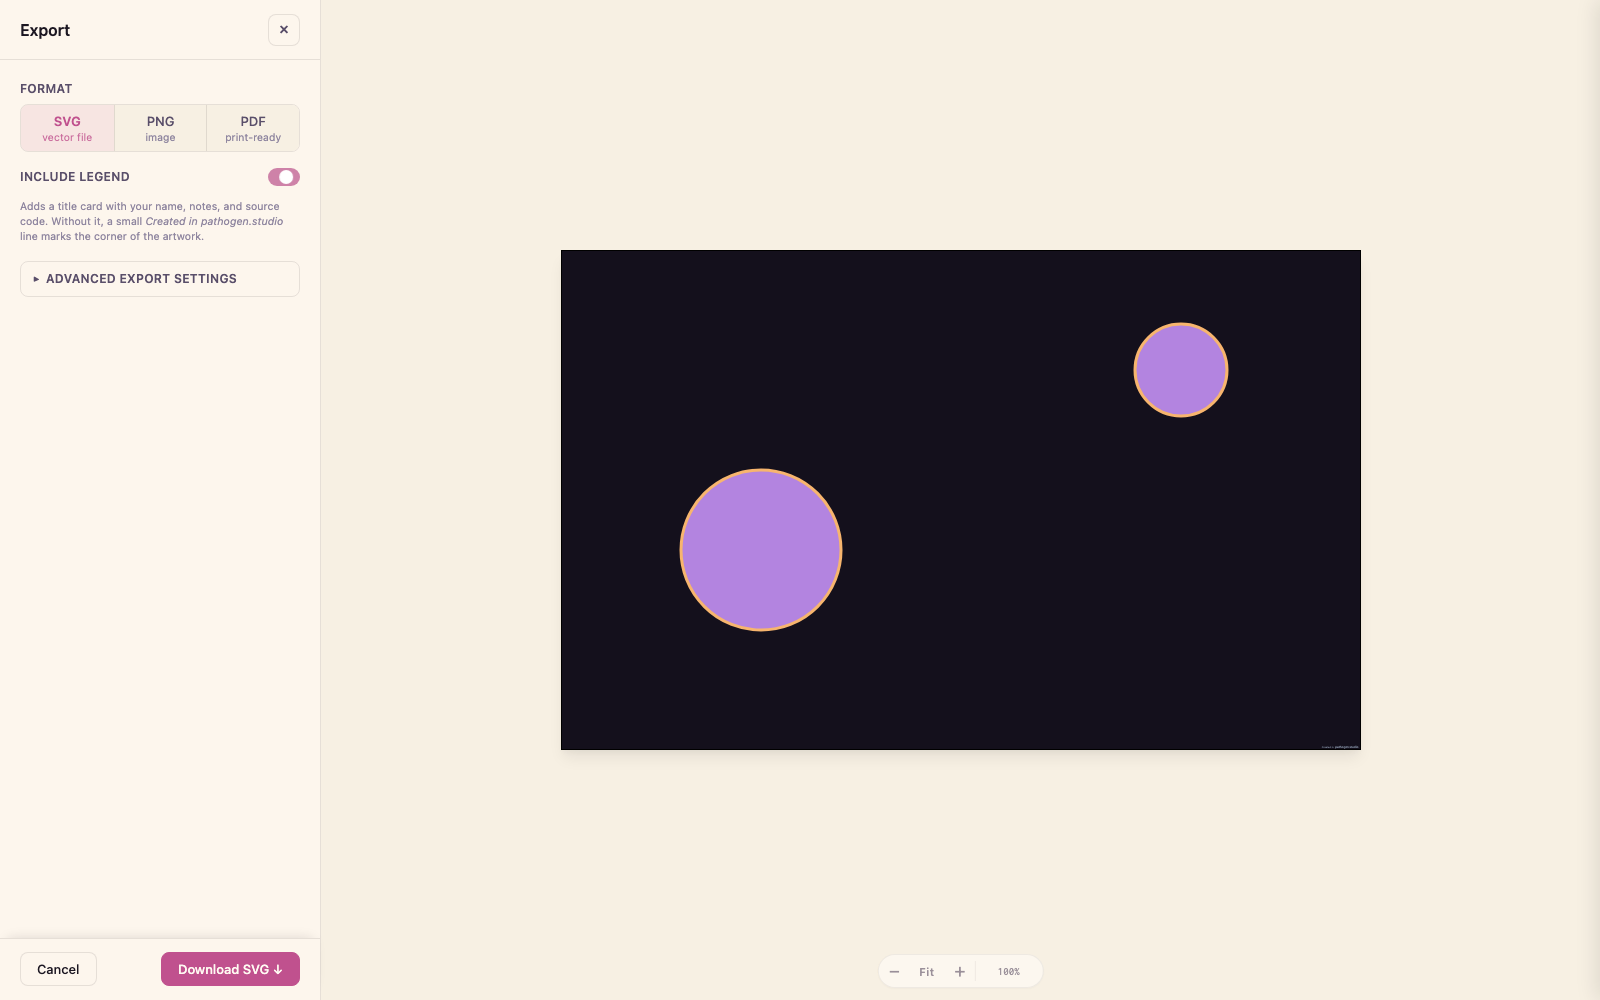
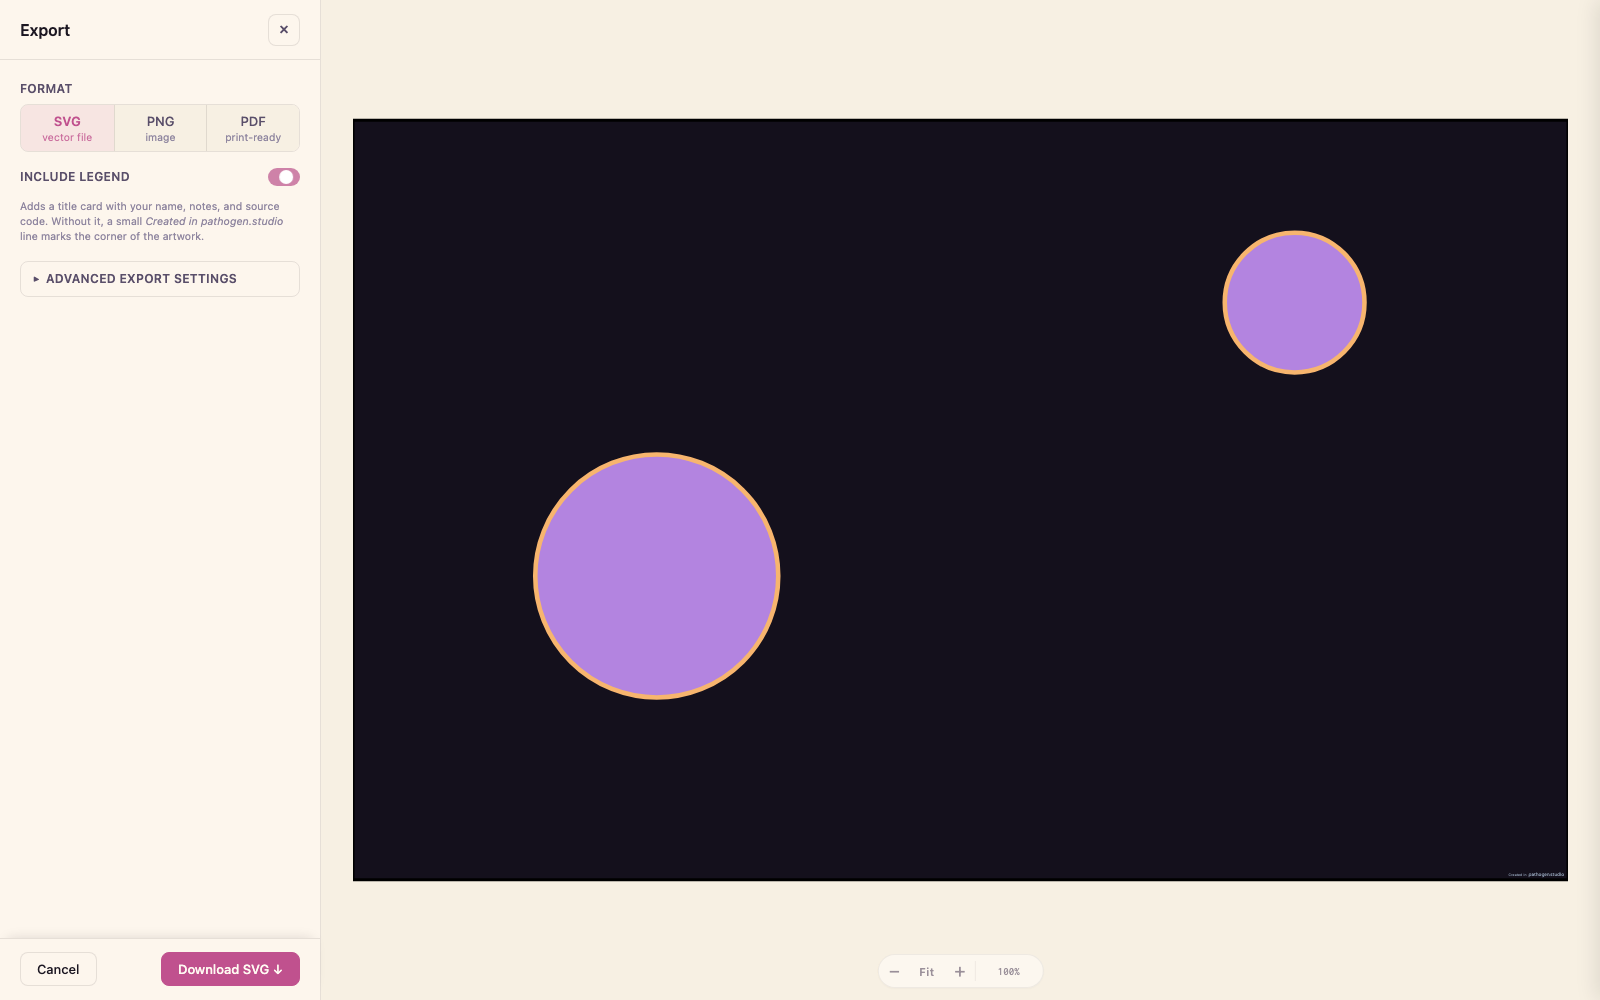
fix(playground): modal zoom window is the pane, not the artwork-sized element
Ryan's follow-up report: Export preview still confined magnified artwork
to a fixed window at high zoom (and framed a tiny artwork in an empty
card at low zoom). Root cause was structural — baked zoom renders into
the ELEMENT box, and both modal SVGs were artwork-sized
(width/height attrs + max-width/height 100%), so the window never grew
with zoom. The primary preview never had the issue because its surface
fills the pane.

Both modal SVG elements now fill the preview area (width/height 100%,
letterboxed at fit via default preserveAspectRatio); the shadow/radius
card decoration on the element is gone — decoration on the zoom window
re-creates the confinement. Export clone unaffected: the sizing is
class-based in the shadow stylesheet and never serializes.

E2E: the computed-radius pin becomes a fills-the-pane geometry pin
(svg rect ≈ preview-area content box) — 41/41. Probes re-shot at 1709%
(artwork fills the pane) and 30% (centered shrink, no empty card).

diff --git a/project-docs/unified-export/verify-export.ts b/project-docs/unified-export/verify-export.ts
@@ -392,14 +392,32 @@ async function main(): Promise<void> {
     `vbW=${zoomedState.vbW} pct=${zoomedState.pct}`,
   );
 
-  // Regression (code review 2026-07-23): a border-radius on the svg element
-  // clips baked-zoom artwork into a rounded mask — the element must have
-  // radius 0 so magnified content is never corner-clipped.
-  const zoomedRadius = await inModal<{ radius: string }>(
+  // Regression (Ryan, 2026-07-23): baked zoom renders into the ELEMENT box —
+  // if the element is artwork-sized, magnified content stays confined to a
+  // small window no matter the zoom (with rounded corners it was also
+  // corner-clipped). The element must fill the preview pane so the zoom
+  // window IS the pane, and must carry no radius.
+  const zoomedGeom = await inModal<{ radius: string; svgW: number; svgH: number; areaW: number; areaH: number; padL: number; padT: number }>(
     page,
-    `return { radius: getComputedStyle(sr.querySelector('.preview-area svg')).borderRadius };`,
+    `var svg = sr.querySelector('.preview-area svg');
+     var area = sr.querySelector('.preview-area');
+     var cs = getComputedStyle(area);
+     var r = svg.getBoundingClientRect();
+     var a = area.getBoundingClientRect();
+     return {
+       radius: getComputedStyle(svg).borderRadius,
+       svgW: r.width, svgH: r.height, areaW: a.width, areaH: a.height,
+       padL: parseFloat(cs.paddingLeft) + parseFloat(cs.paddingRight),
+       padT: parseFloat(cs.paddingTop) + parseFloat(cs.paddingBottom),
+     };`,
   );
-  check('zoomed artwork is never corner-clipped (svg radius is 0)', zoomedRadius.radius === '0px', `radius=${zoomedRadius.radius}`);
+  check(
+    'zoom window is the whole pane (svg fills preview area, radius 0)',
+    zoomedGeom.radius === '0px' &&
+      Math.abs(zoomedGeom.svgW - (zoomedGeom.areaW - zoomedGeom.padL)) < 4 &&
+      Math.abs(zoomedGeom.svgH - (zoomedGeom.areaH - zoomedGeom.padT)) < 4,
+    `svg=${Math.round(zoomedGeom.svgW)}×${Math.round(zoomedGeom.svgH)} area=${Math.round(zoomedGeom.areaW)}×${Math.round(zoomedGeom.areaH)} radius=${zoomedGeom.radius}`,
+  );
   await inModal(page, pillZoomFit);
   const fitState = await inModal<{ vbW: number; pct: string }>(page, readZoomState);
   check('pill Fit restores the full viewBox at 100%', fitState.vbW === 800 && fitState.pct === '100%', `vbW=${fitState.vbW}`);

diff --git a/project-docs/unified-export/probe-parity-zoom.ts b/project-docs/unified-export/probe-parity-zoom.ts
@@ -92,15 +92,30 @@ async function main(): Promise<void> {
   await page.evaluate(`document.dispatchEvent(new CustomEvent('open-export', { bubbles: true, composed: true }));`);
   await new Promise((r) => setTimeout(r, 800));
 
-  // Zoom to ~506% (1.5^4) via the pill.
-  for (let i = 0; i < 4; i++) {
+  // Zoom to ~1709% (1.5^7) via the pill — the confinement Ryan reported was
+  // most visible at very high zoom.
+  for (let i = 0; i < 7; i++) {
     await page.evaluate(
       `(() => { ${FIND} sr.querySelector('pathogen-zoom-pill').shadowRoot.querySelector('#zoom-in').click(); })()`,
     );
     await new Promise((r) => setTimeout(r, 150));
   }
   await new Promise((r) => setTimeout(r, 400));
-  await page.screenshot({ path: join(OUT, 'probe-parity-500pct.png') });
+  await page.screenshot({ path: join(OUT, 'probe-parity-1700pct.png') });
+
+  // Zoom OUT to ~30% — below fit the artwork should shrink centered on the
+  // pane with no empty "card" framing it.
+  await page.evaluate(
+    `(() => { ${FIND} sr.querySelector('pathogen-zoom-pill').shadowRoot.querySelector('#zoom-fit').click(); })()`,
+  );
+  for (let i = 0; i < 3; i++) {
+    await page.evaluate(
+      `(() => { ${FIND} sr.querySelector('pathogen-zoom-pill').shadowRoot.querySelector('#zoom-out').click(); })()`,
+    );
+    await new Promise((r) => setTimeout(r, 150));
+  }
+  await new Promise((r) => setTimeout(r, 400));
+  await page.screenshot({ path: join(OUT, 'probe-parity-30pct.png') });
 
   // Legend on at fit — pill + snap chip cluster over full-bleed preview.
   await page.evaluate(

diff --git a/playground/components/export-modal.css b/playground/components/export-modal.css
@@ -212,15 +212,18 @@
   cursor: grabbing;
 }
 
-/* No border-radius: the element clips its content (SVG UA overflow:hidden),
- * and once a zoom bakes into the viewBox the element is back at DOM size
- * with magnified artwork — a radius would clip it into a rounded mask
- * (the pre-parity bug). Shadow only, matching the thumbnail modal. */
+/* The SVG element fills the whole preview area (like the primary preview's
+ * iframe surface): the element box is the zoom window, and once a zoom bakes
+ * into the viewBox, content rendered into an artwork-sized element would stay
+ * confined to that small box no matter the zoom level (the reported clip).
+ * With the element = the pane, baked zoom fills the pane; at fit the artwork
+ * letterboxes centered via preserveAspectRatio (xMidYMid meet, the default).
+ * No radius/shadow — decoration on the element would frame the pane, and any
+ * clip decoration re-creates the windowing bug. */
 .preview-area svg {
   display: block;
-  max-width: 100%;
-  max-height: 100%;
-  box-shadow: var(--shadow-lg, 0 10px 15px -3px rgba(0, 0, 0, 0.08));
+  width: 100%;
+  height: 100%;
 }
 
 /* Floating control cluster: shared zoom pill + snap chip, bottom-center

diff --git a/playground/components/thumbnail-crop-modal.ts b/playground/components/thumbnail-crop-modal.ts
@@ -216,12 +216,13 @@ const styles = `
     cursor: grabbing;
   }
 
+  /* Element = pane, so the baked-zoom window is the whole pane (same
+   * geometry as the export modal and the primary preview's iframe). At fit
+   * the artwork letterboxes centered via preserveAspectRatio. */
   .preview-area svg {
     display: block;
-    max-width: 100%;
-    max-height: 100%;
-    box-shadow: var(--shadow-lg, 0 10px 15px -3px rgba(0, 0, 0, 0.08));
-    overflow: visible;
+    width: 100%;
+    height: 100%;
   }
 
   /* Zoom control is the shared <pathogen-zoom-pill>, floating bottom-center

diff --git a/project-docs/pan-zoom-performance/zoom-surface-parity.md b/project-docs/pan-zoom-performance/zoom-surface-parity.md
@@ -195,6 +195,20 @@ probe-parity-500pct.png` / `probe-parity-pill-chip.png`. Full suite
 green (3,855). `.vsix` builds; VS Code interactive verify is Ryan's
 manual step (install + reload, wheel/drag/pill at 10%/2000%).
 
+**Second user report (2026-07-23, post-commit):** zoom still confined to
+a window. Root cause was structural, not cosmetic: baked zoom renders
+into the ELEMENT box, and both modal SVGs were artwork-sized
+(`width`/`height` attrs + `max-width/height: 100%`) — so magnified
+content stayed inside a small centered box at any zoom. The primary
+preview never had this because its surface fills the pane. Fix: modal
+SVG elements are now `width/height: 100%` of the preview area (the zoom
+window IS the pane; at fit the artwork letterboxes centered via default
+`preserveAspectRatio`), shadow/radius decoration removed. Export clone
+unaffected (sizing is class-based in the shadow stylesheet, never
+serialized). E2E radius pin upgraded to a fills-the-pane geometry pin.
+Probes: `probe-parity-1700pct.png` (fills pane), `probe-parity-30pct.png`
+(centered shrink, no empty card).
+
 **Code-review round (2026-07-23):** two Warnings, both fixed —
 (1) the corner-radius clip returned post-bake (review caught the flaw in
 "obsolete under transform mode"; radius removed entirely + E2E pin);
